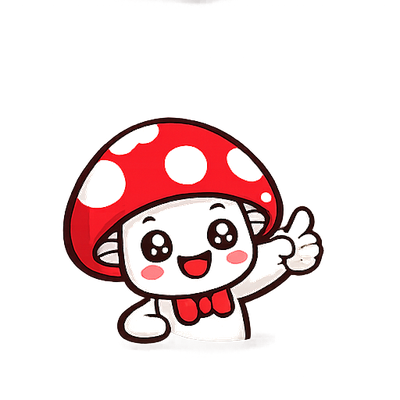
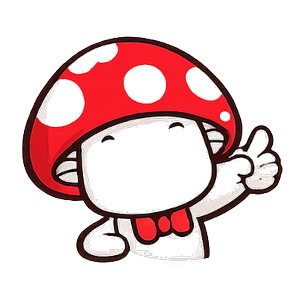
auto-commit for 95419ca2-be48-4d56-98c8-4301c6687089

Changed region(s): [[0.0592, 0.1184, 0.9474, 0.8882], [0.4737, 0.0, 0.5033, 0.0296]]

diff --git a/frontend/src/pages/HomePage.js b/frontend/src/pages/HomePage.js
@@ -271,8 +271,15 @@ export default function HomePage() {
   const journeySteps = [
     { pose: 'wave',            title: 'الاستقبال',                         desc: 'نستقبل الطفل بحب ونبدأ تجربة بيكابو بابتسامة',           color: 'red'    },
     { pose: 'paws-up',         title: 'اللعب',                             desc: 'يلعب الطفل ويستمتع في مناطق اللعب المختلفة داخل بيكابو', color: 'yellow' },
-    { pose: 'jump-cheer',      title: 'الاحتفال مع الشخصيات الكرتونية',    desc: 'شخصيات كرتونية وأجواء احتفالية تصنع لحظات لا تُنسى',      color: 'orange' },
-    { pose: 'gold-run', title: 'مسابقات وفعاليات طوال اليوم',       desc: 'مسابقات وفعاليات مستمرة طوال ساعات العمل',                color: 'red'    },
+    // Mission journey-bugfix: step 3 was 'jump-cheer' but that pose's
+    // content is intrinsically wide (1.6:1) so it read as clipped inside a
+    // square tile. Swapped to 'party-big' which is square (1.03:1) and
+    // semantically matches "celebration with cartoon characters".
+    { pose: 'party-big',       title: 'الاحتفال مع الشخصيات الكرتونية',    desc: 'شخصيات كرتونية وأجواء احتفالية تصنع لحظات لا تُنسى',      color: 'orange' },
+    // Step 4 was 'gold-run' (0.77:1 tall + had bleed fragments from a
+    // sprite-sheet export). Swapped to 'thumbs-up-big' (1.13:1, square)
+    // which still reads as success / celebration for "contests & activities".
+    { pose: 'thumbs-up-big',   title: 'مسابقات وفعاليات طوال اليوم',       desc: 'مسابقات وفعاليات مستمرة طوال ساعات العمل',                color: 'red'    },
     { pose: 'clipboard-write', title: 'نشاط فني أو حسي',                   desc: 'كل يوم نشاط مختلف: فني أو حسي أو تفاعلي',                 color: 'green'  },
     { pose: 'gift-magic',      title: 'هديتك معك',                         desc: 'كل طفل لازم يطلع بهديته — الهدايا جزء أساسي من معايير بيكابو', color: 'blue' },
     { pose: 'wave2',           title: 'مع السلامة',                        desc: 'نودّع الطفل بابتسامة وننتظره في الزيارة القادمة',         color: 'yellow' },
